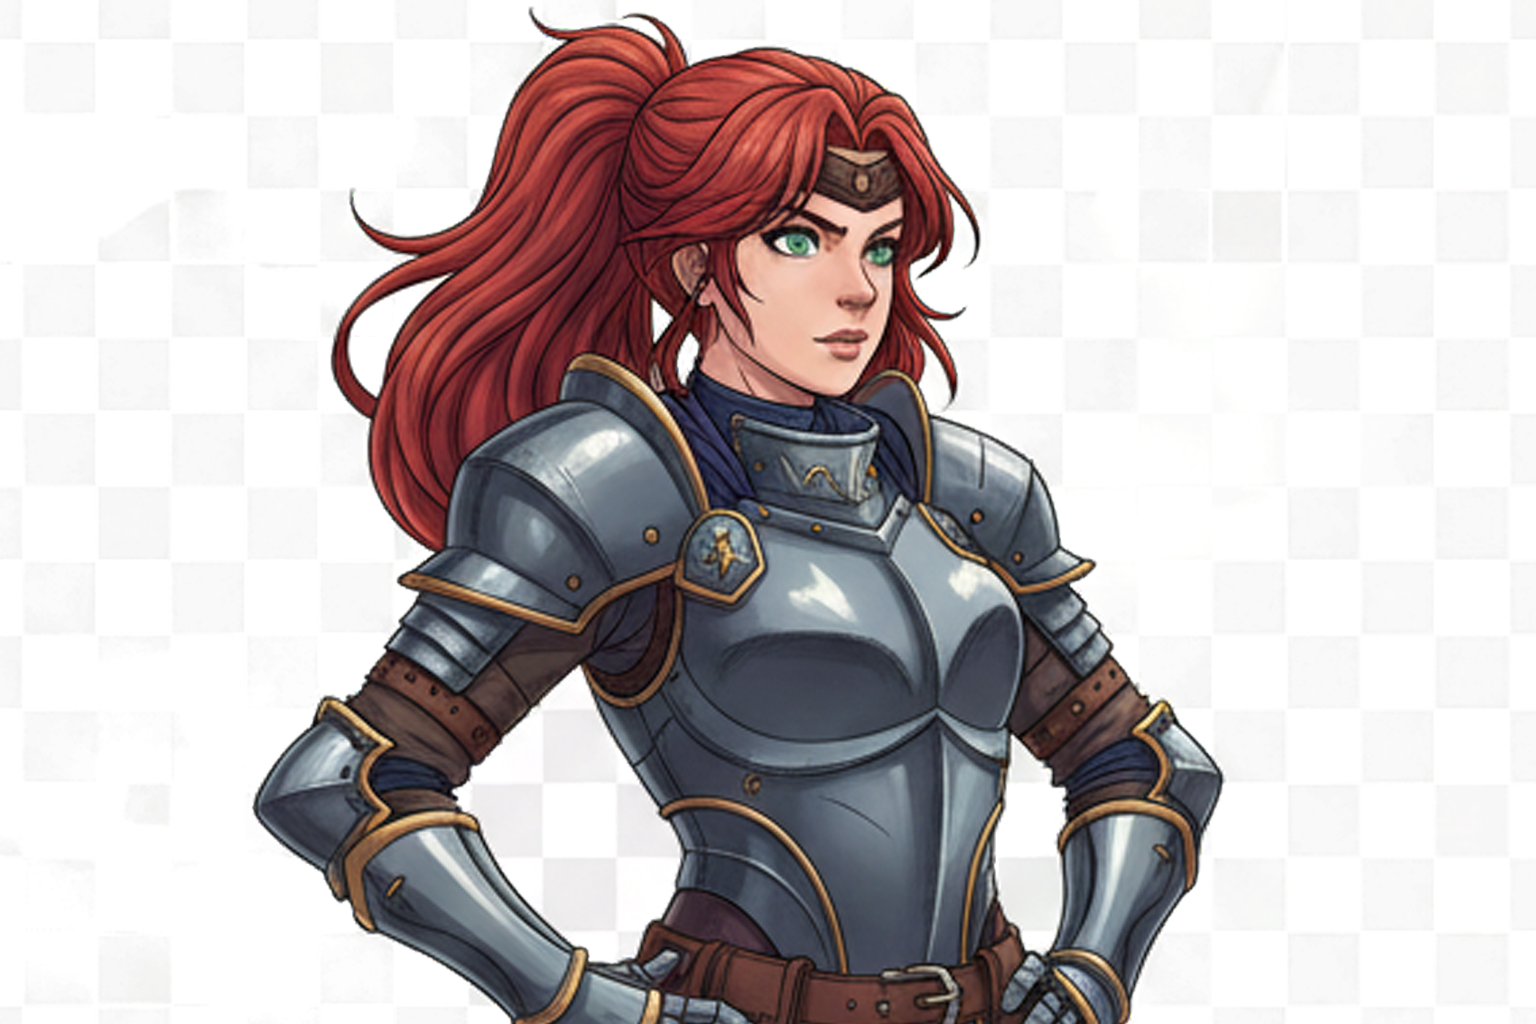
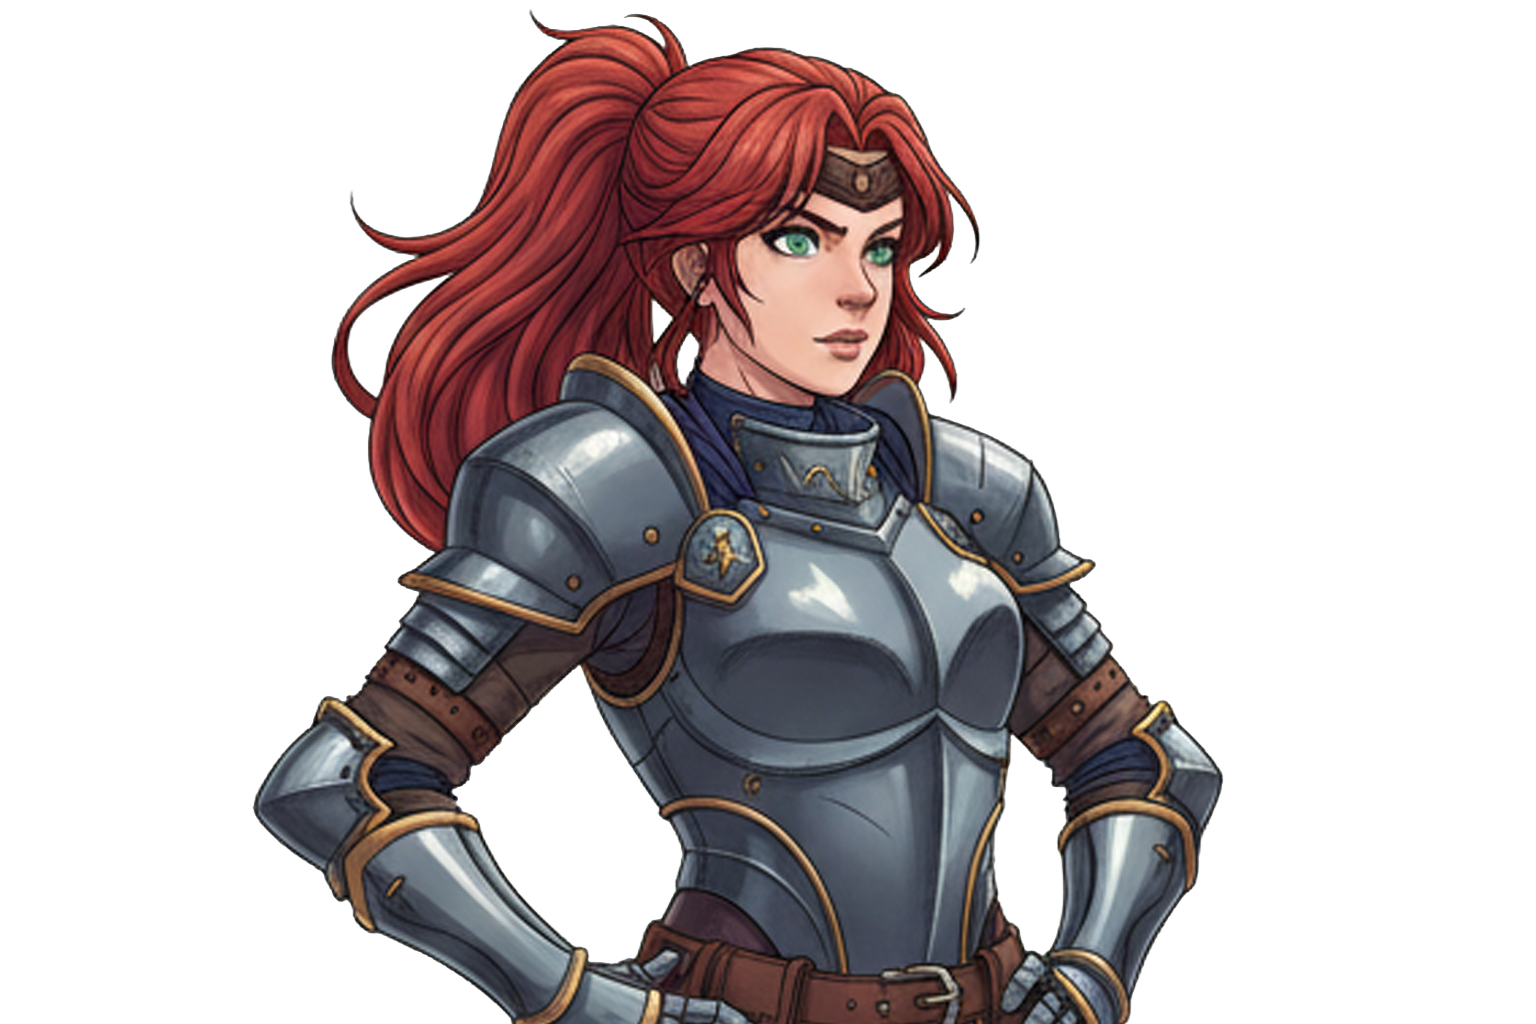
Remove translucent character frames across game sections

diff --git a/style.css b/style.css
@@ -243,10 +243,10 @@ img{ max-width:100%; height:auto; }
   transform: translate(-50%, -50%);
   width: min(420px, 92vw);
   border-radius: 16px;
-  border: 1px solid rgba(255,255,255,.14);
-  background: rgba(255,255,255,.07);
+  border: none;
+  background: transparent;
   overflow: hidden;
-  box-shadow: 0 10px 22px rgba(0,0,0,.2);
+  box-shadow: none;
   z-index: 3;
 }
 .recruit-reveal.reveal-burst{
@@ -257,7 +257,7 @@ img{ max-width:100%; height:auto; }
   height: 360px;
   object-fit: contain;
   display: block;
-  background: rgba(0,0,0,.16);
+  background: transparent;
 }
 .recruit-reveal-name{
   padding: 10px 12px;
@@ -335,8 +335,8 @@ img{ max-width:100%; height:auto; }
 
 .user-char{
   border-radius: 16px;
-  border: 1px solid rgba(255,255,255,.12);
-  background: rgba(255,255,255,.06);
+  border: none;
+  background: transparent;
   overflow: hidden;
   text-align: left;
 }
@@ -346,7 +346,7 @@ img{ max-width:100%; height:auto; }
   height: 118px;
   object-fit: contain;
   display: block;
-  background: rgba(0,0,0,.12);
+  background: transparent;
 }
 
 .user-char-name{
@@ -407,8 +407,8 @@ img{ max-width:100%; height:auto; }
 .carousel-center{
   min-height: 260px;
   border-radius: 18px;
-  border: 1px solid rgba(255,255,255,.12);
-  background: rgba(255,255,255,.06);
+  border: none;
+  background: transparent;
   padding: 14px 12px;
   display:flex;
   flex-direction:column;
@@ -581,9 +581,9 @@ img{ max-width:100%; height:auto; }
   width: 64px;
   height: 64px;
   border-radius: 16px;
-  border: 1px solid rgba(255,255,255,.12);
-  background: rgba(255,255,255,.06);
-  box-shadow: 0 10px 26px rgba(0,0,0,.18);
+  border: none;
+  background: transparent;
+  box-shadow: none;
   padding: 0;
   cursor:pointer;
   display:grid;
@@ -698,8 +698,8 @@ img{ max-width:100%; height:auto; }
 
 .char{
   border-radius: 16px;
-  border: 1px solid rgba(255,255,255,.12);
-  background: rgba(255,255,255,.06);
+  border: none;
+  background: transparent;
   padding: 12px;
   cursor:pointer;
   transition: transform .12s ease, border-color .12s ease, background .12s ease, opacity .12s ease;
@@ -811,12 +811,12 @@ img{ max-width:100%; height:auto; }
 
 .team-card{
   border-radius: 16px;
-  border: 1px solid rgba(255,255,255,.12);
-  background: rgba(255,255,255,.06);
+  border: none;
+  background: transparent;
   cursor:pointer;
   overflow:hidden;
   transition: transform .12s ease, border-color .12s ease, background .12s ease;
-  box-shadow: 0 10px 26px rgba(0,0,0,.18);
+  box-shadow: none;
   padding: 0;
   text-align:left;
 }
@@ -828,7 +828,7 @@ img{ max-width:100%; height:auto; }
   object-fit: contain;
   object-position: center;
   display:block;
-  background: rgba(0,0,0,.12);
+  background: transparent;
 }
 
 .team-card .team-card-name{
@@ -854,8 +854,8 @@ img{ max-width:100%; height:auto; }
 }
 .rival-item{
   border-radius: 16px;
-  border: 1px solid rgba(255,255,255,.12);
-  background: rgba(255,255,255,.06);
+  border: none;
+  background: transparent;
   overflow: hidden;
 }
 .rival-item img{
@@ -863,7 +863,7 @@ img{ max-width:100%; height:auto; }
   height: 100px;
   object-fit: contain;
   display:block;
-  background: rgba(0,0,0,.12);
+  background: transparent;
 }
 .rival-item-name{
   padding: 8px 9px;
